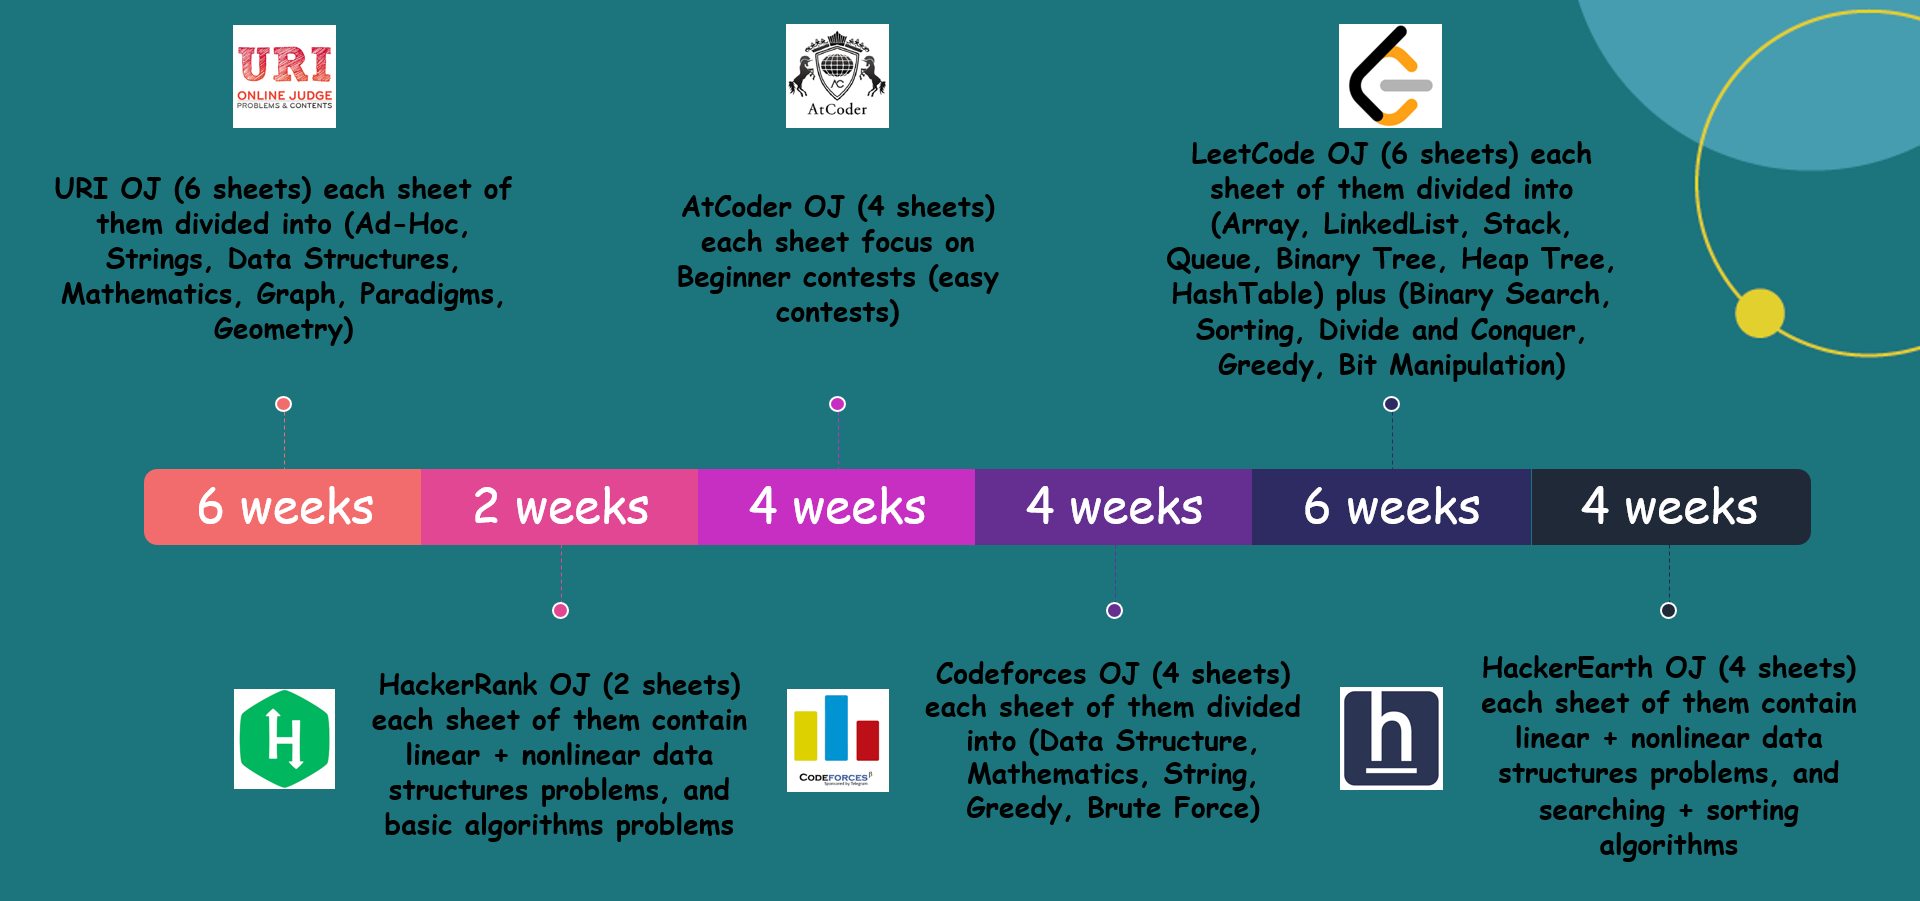
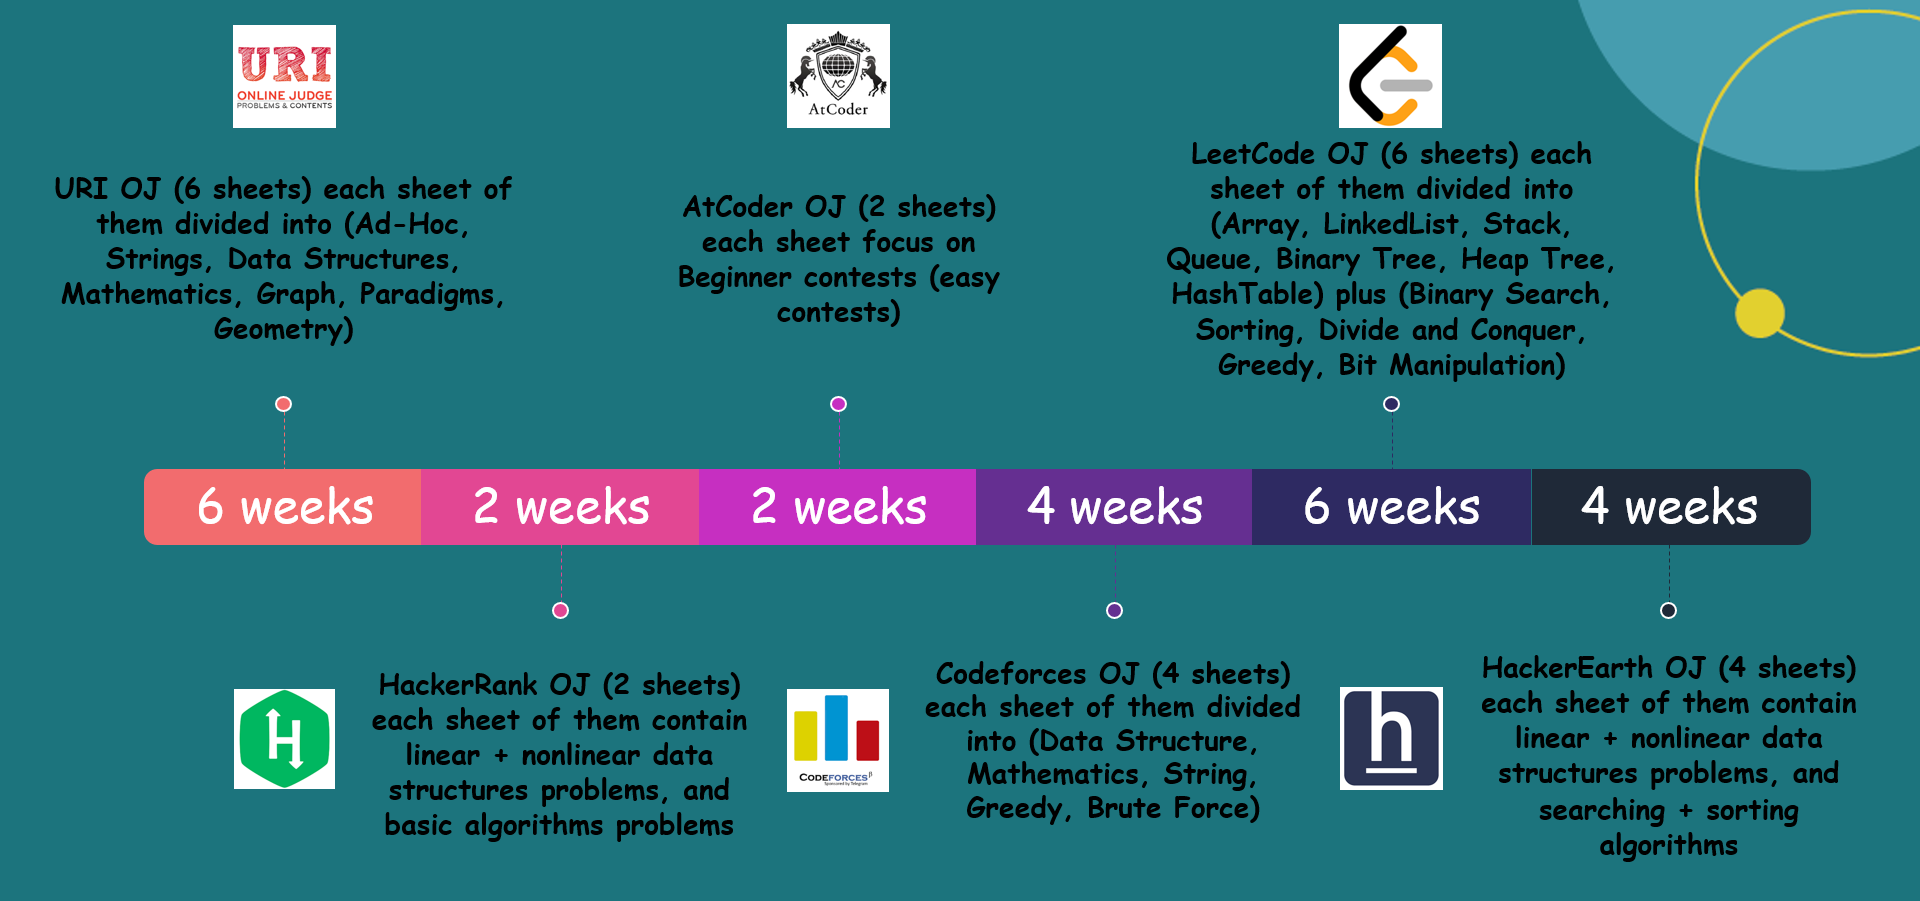
version 2022

diff --git a/README.md b/README.md
@@ -110,7 +110,7 @@ The HackerRank OJ sheets: [phase-2-data-structures](https://github.com/cs-Mohame
 
 ## [`AtCoder OJ sheets`](https://github.com/cs-MohamedAyman/Problem-Solving-Training/tree/master/level-2/README.md)
 
-The AtCoder OJ sheets: [phase-2-1](https://github.com/cs-MohamedAyman/Problem-Solving-Training/tree/master/level-2/atcoder/phase-2-1), [phase-2-2](https://github.com/cs-MohamedAyman/Problem-Solving-Training/tree/master/level-2/atcoder/phase-2-2), These sheets focus on beginner contests (easy contests) and each sheet contains ~90 problems.
+The AtCoder OJ sheets: [phase-2-1](https://github.com/cs-MohamedAyman/Problem-Solving-Training/tree/master/level-2/atcoder/phase-2-1), [phase-2-2](https://github.com/cs-MohamedAyman/Problem-Solving-Training/tree/master/level-2/atcoder/phase-2-2), These sheets focus on beginner contests (easy contests) and each sheet contains ~180 problems.
 
 <img align="right" width="85" src="https://github.com/cs-MohamedAyman/Problem-Solving-Training/blob/master/logos/codeforces.jpg">
 <br>

diff --git a/level-2/README.md b/level-2/README.md
@@ -164,7 +164,7 @@ The HackerRank OJ sheets: [phase-2-data-structures](https://github.com/cs-Mohame
 
 ## [`AtCoder OJ sheets`](https://github.com/cs-MohamedAyman/Problem-Solving-Training/tree/master/level-2/README.md)
 
-The AtCoder OJ sheets: [phase-2-1](https://github.com/cs-MohamedAyman/Problem-Solving-Training/tree/master/level-2/atcoder/phase-2-1), [phase-2-2](https://github.com/cs-MohamedAyman/Problem-Solving-Training/tree/master/level-2/atcoder/phase-2-2), These sheets focus on beginner contests (easy contests) and each sheet contains ~90 problems.
+The AtCoder OJ sheets: [phase-2-1](https://github.com/cs-MohamedAyman/Problem-Solving-Training/tree/master/level-2/atcoder/phase-2-1), [phase-2-2](https://github.com/cs-MohamedAyman/Problem-Solving-Training/tree/master/level-2/atcoder/phase-2-2), These sheets focus on beginner contests (easy contests) and each sheet contains ~180 problems.
 
 <table>
     <thead>
